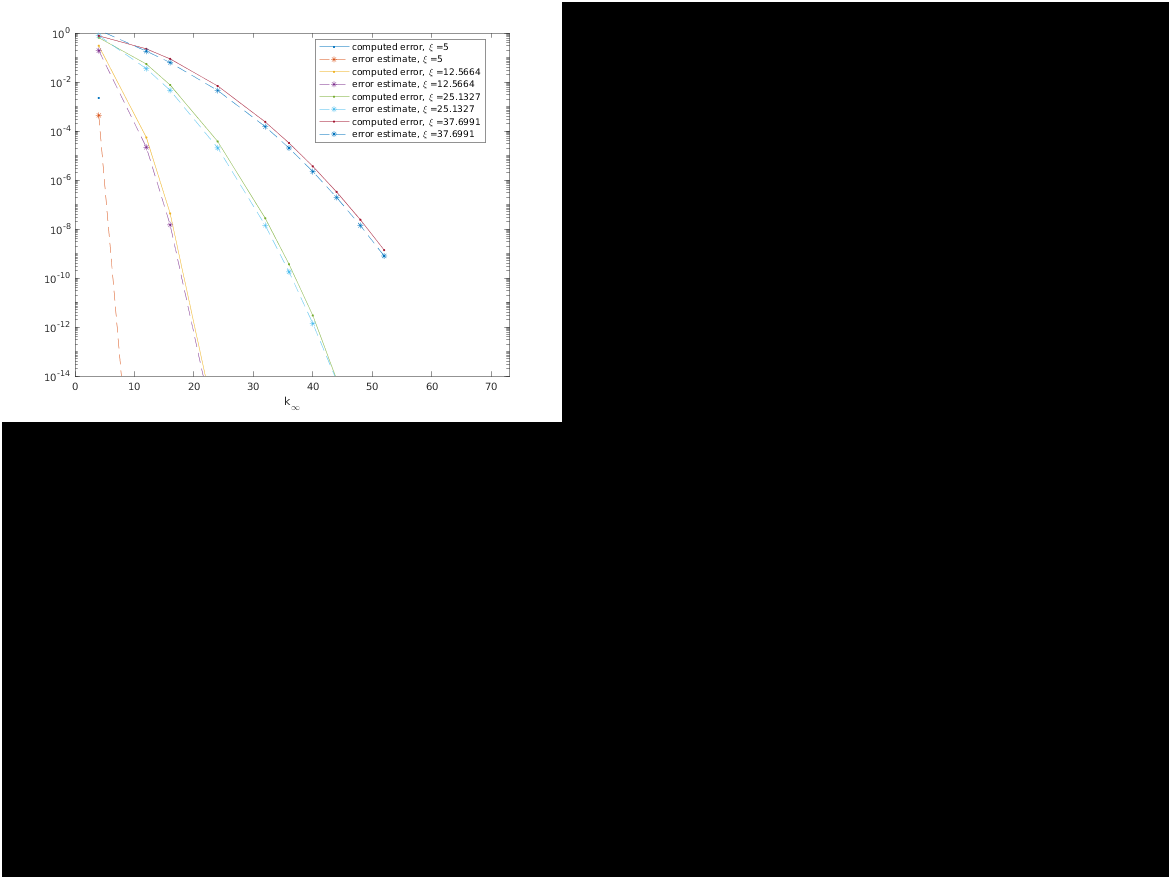
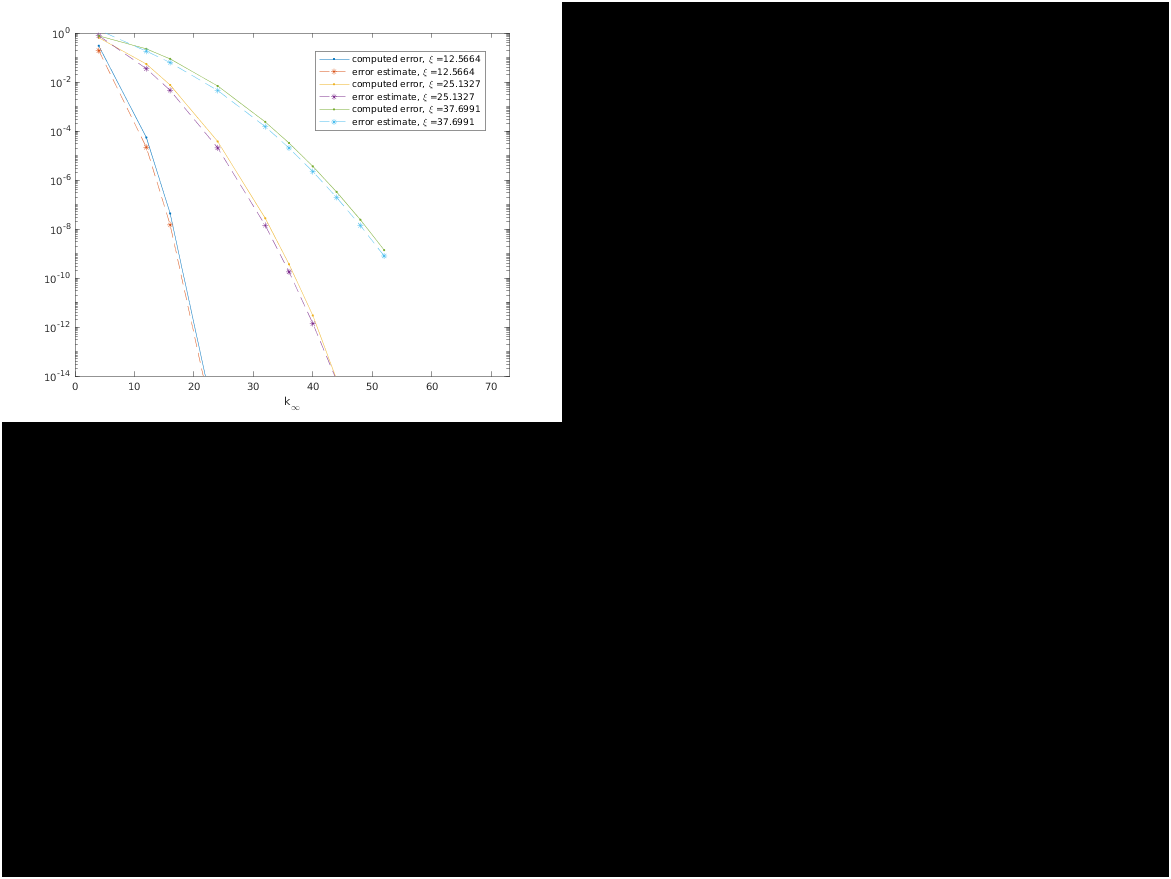
imgs

Changed region(s): [[0.2767, 0.0307, 0.4304, 0.1536], [0.123, 0.0614, 0.1537, 0.0922]]

diff --git a/SE_Stokes_run/SE3P_Stokes/param_select.m b/SE_Stokes_run/SE3P_Stokes/param_select.m
@@ -28,7 +28,7 @@ ED_opt.layers = (opt.M(1)-1)/2;
 ED_opt.box = box;
 refv = [];
 rms_ev = [];
-xx = [5,(4:4:12)*pi];
+xx = (4:4:12)*pi;
 
     %% Direct solution
 if(exist('refval.mat'))
